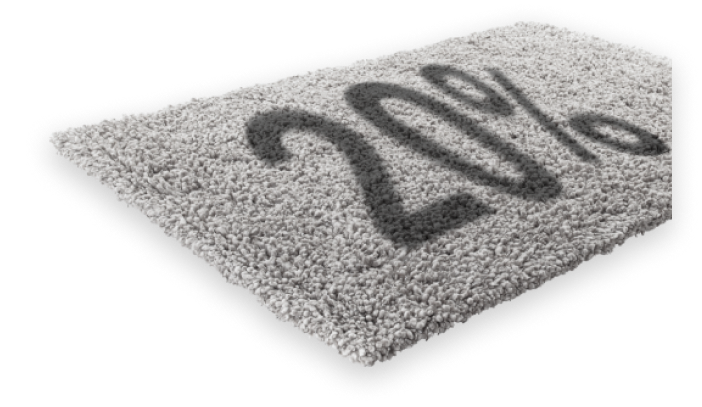
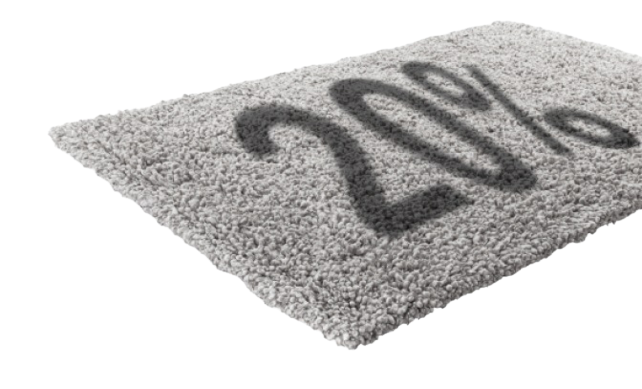
remove background sale img

Changed region(s): [[0.0623, 0.0308, 1.0, 0.9254]]

diff --git a/src/views/HomeView.vue b/src/views/HomeView.vue
@@ -424,7 +424,7 @@ export default {
   .sale-img {
     position: absolute;
     top: 0;
-    right: -30px;
+    right: 0;
     z-index: 1;
   }
 }
